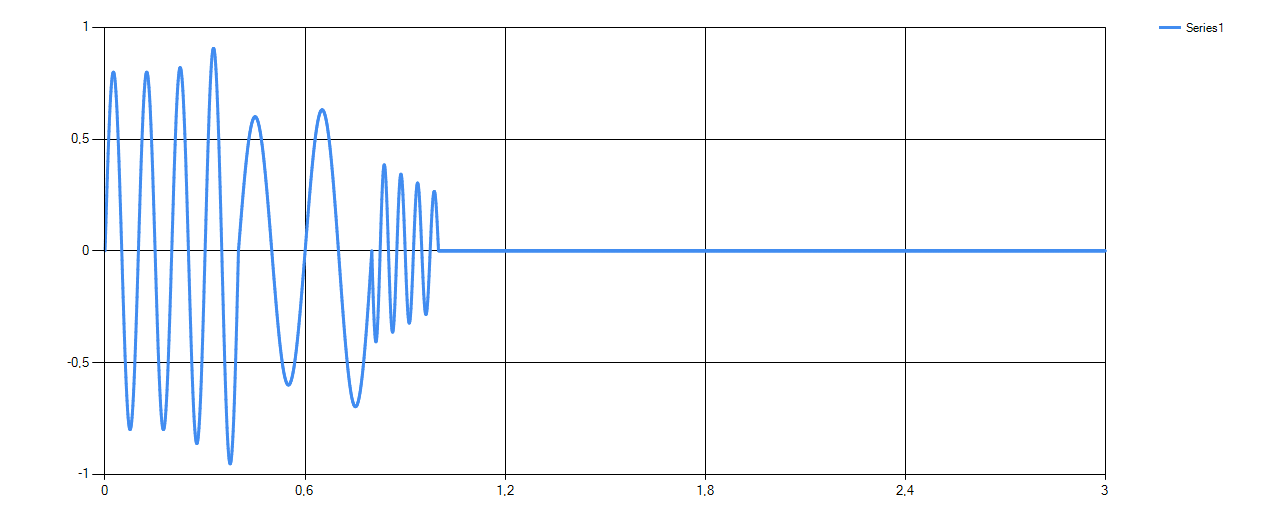
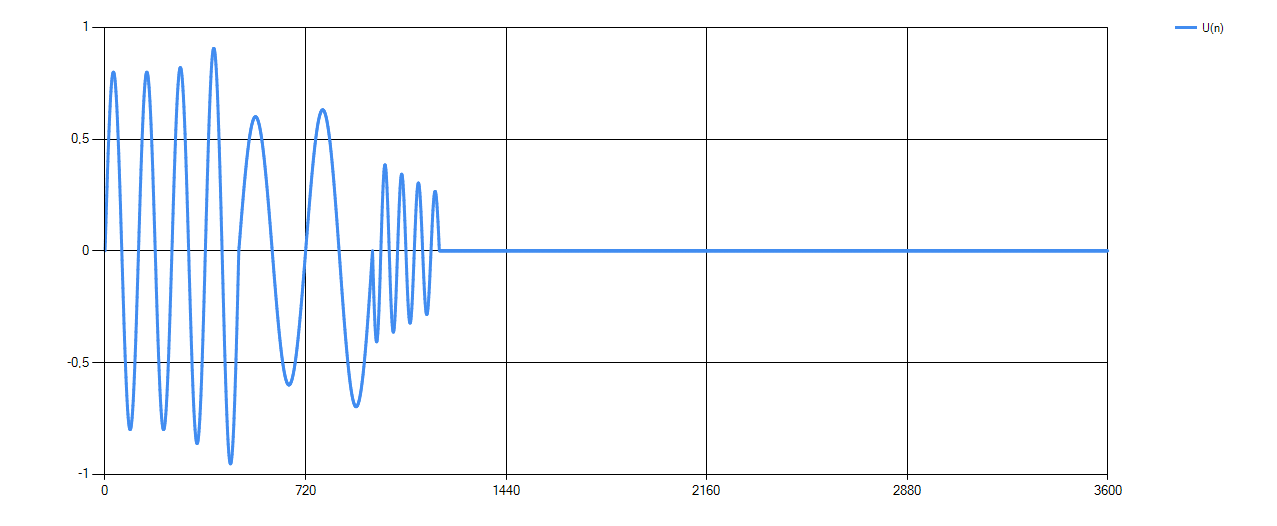
All Ex done.

diff --git a/PTD_Lab1/PTD_Lab1/Program.cs b/PTD_Lab1/PTD_Lab1/Program.cs
@@ -101,19 +101,19 @@ namespace PTD_Lab1
 			this.chart1.Name = "chart1";
 			series1.ChartArea = "ChartArea1";
 			series1.Legend = "Legend1";
-			series1.Name = "Series1";
+			series1.Name = "X(n)";
 			this.chart1.Series.Add(series1);
 			this.chart1.Size = new System.Drawing.Size(1277, 526);
 			this.chart1.TabIndex = 0;
 			this.chart1.Text = "chart1";
-			this.chart1.ChartAreas[0].AxisX.Maximum = zad1.getBig_T();
+			this.chart1.ChartAreas[0].AxisX.Maximum = zad1.getN();
 			this.chart1.ChartAreas[0].AxisX.Minimum = 0;
 			// 
 			// Program
 			this.chart1.Series[0].BorderWidth = 3;
 			for (int i = 0; i < zad1.getN(); i++)
 			{
-				this.chart1.Series[0].Points.AddXY(zad1.getSmall_t(i), zad1.getXN(i));
+				this.chart1.Series[0].Points.AddXY(i, zad1.getXN(i));
 				this.chart1.Series[0].ChartType = System.Windows.Forms.DataVisualization.Charting.SeriesChartType.Line;
 			}
 			// 
@@ -146,19 +146,19 @@ namespace PTD_Lab1
 			this.chart1.Name = "chart1";
 			series1.ChartArea = "ChartArea1";
 			series1.Legend = "Legend1";
-			series1.Name = "Series1";
+			series1.Name = "Z(n)";
 			this.chart1.Series.Add(series1);
 			this.chart1.Size = new System.Drawing.Size(1277, 526);
 			this.chart1.TabIndex = 0;
 			this.chart1.Text = "chart1";
-			this.chart1.ChartAreas[0].AxisX.Maximum = zad1.getBig_T();
+			this.chart1.ChartAreas[0].AxisX.Maximum = zad1.getN();
 			this.chart1.ChartAreas[0].AxisX.Minimum = 0;
 			// 
 			// Program
 			this.chart1.Series[0].BorderWidth = 3;
 			for (int i = 0; i < zad1.getN(); i++)
 			{
-				this.chart1.Series[0].Points.AddXY(zad1.getSmall_t(i), zad1.getZN(i));
+				this.chart1.Series[0].Points.AddXY(i, zad1.getZN(i));
 				this.chart1.Series[0].ChartType = System.Windows.Forms.DataVisualization.Charting.SeriesChartType.Line;
 			}
 			// 
@@ -190,19 +190,19 @@ namespace PTD_Lab1
 			this.chart1.Name = "chart1";
 			series1.ChartArea = "ChartArea1";
 			series1.Legend = "Legend1";
-			series1.Name = "Series1";
+			series1.Name = "V(n)";
 			this.chart1.Series.Add(series1);
 			this.chart1.Size = new System.Drawing.Size(1277, 526);
 			this.chart1.TabIndex = 0;
 			this.chart1.Text = "chart1";
-			this.chart1.ChartAreas[0].AxisX.Maximum = zad1.getBig_T();
+			this.chart1.ChartAreas[0].AxisX.Maximum = zad1.getN();
 			this.chart1.ChartAreas[0].AxisX.Minimum = 0;
 			// 
 			// Program
 			this.chart1.Series[0].BorderWidth = 3;
 			for (int i = 0; i < zad1.getN(); i++)
 			{
-				this.chart1.Series[0].Points.AddXY(zad1.getSmall_t(i), zad1.getVN(i));
+				this.chart1.Series[0].Points.AddXY(i, zad1.getVN(i));
 				this.chart1.Series[0].ChartType = System.Windows.Forms.DataVisualization.Charting.SeriesChartType.Line;
 			}
 			// 
@@ -234,19 +234,19 @@ namespace PTD_Lab1
 			this.chart1.Name = "chart1";
 			series1.ChartArea = "ChartArea1";
 			series1.Legend = "Legend1";
-			series1.Name = "Series1";
+			series1.Name = "U(n)";
 			this.chart1.Series.Add(series1);
 			this.chart1.Size = new System.Drawing.Size(1277, 526);
 			this.chart1.TabIndex = 0;
 			this.chart1.Text = "chart1";
-			this.chart1.ChartAreas[0].AxisX.Maximum = zad1.getBig_T();
+			this.chart1.ChartAreas[0].AxisX.Maximum = zad1.getN();
 			this.chart1.ChartAreas[0].AxisX.Minimum = 0;
 			// 
 			// Program
 			this.chart1.Series[0].BorderWidth = 3;
 			for (int i = 0; i < zad1.getN(); i++)
 			{
-				this.chart1.Series[0].Points.AddXY(zad1.getSmall_t(i), zad1.getUN(i));
+				this.chart1.Series[0].Points.AddXY(i, zad1.getUN(i));
 				this.chart1.Series[0].ChartType = System.Windows.Forms.DataVisualization.Charting.SeriesChartType.Line;
 			}
 			// 
@@ -278,7 +278,7 @@ namespace PTD_Lab1
 			this.chart1.Name = "chart1";
 			series1.ChartArea = "ChartArea1";
 			series1.Legend = "Legend1";
-			series1.Name = "Series1";
+			series1.Name = "g(t)  H=2";
 			this.chart1.Series.Add(series1);
 			this.chart1.Size = new System.Drawing.Size(1277, 526);
 			this.chart1.TabIndex = 0;
@@ -322,7 +322,7 @@ namespace PTD_Lab1
 			this.chart1.Name = "chart1";
 			series1.ChartArea = "ChartArea1";
 			series1.Legend = "Legend1";
-			series1.Name = "Series1";
+			series1.Name = "g(t)  H=5";
 			this.chart1.Series.Add(series1);
 			this.chart1.Size = new System.Drawing.Size(1277, 526);
 			this.chart1.TabIndex = 0;
@@ -366,7 +366,7 @@ namespace PTD_Lab1
 			this.chart1.Name = "chart1";
 			series1.ChartArea = "ChartArea1";
 			series1.Legend = "Legend1";
-			series1.Name = "Series1";
+			series1.Name = "g(t)  H=50";
 			this.chart1.Series.Add(series1);
 			this.chart1.Size = new System.Drawing.Size(1277, 526);
 			this.chart1.TabIndex = 0;
